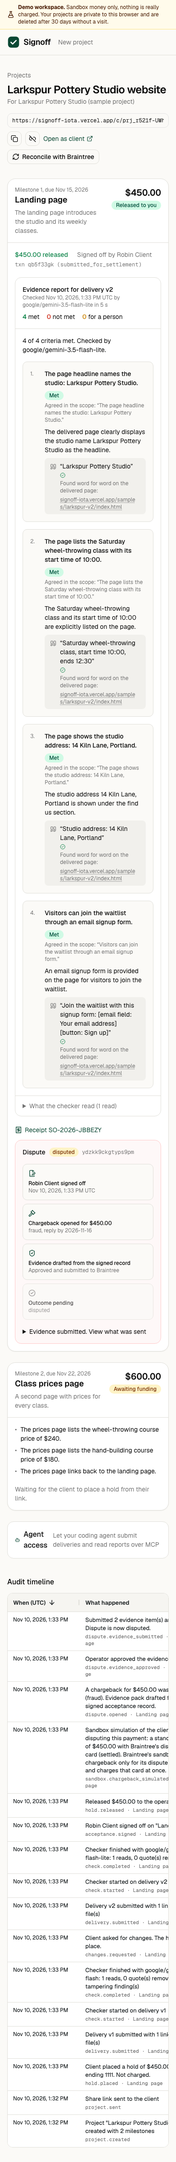
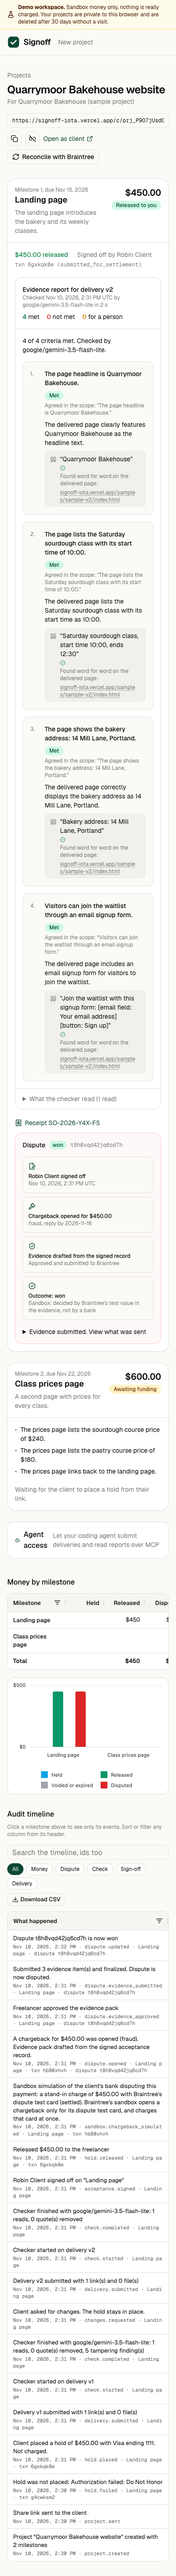
Judge path as a host test, and production screenshots re-captured
tests/e2e/judge-path.spec.ts follows the README judge path step by step on the
sandbox, card typed into the Drop-in, through the chargeback ruled won and the
money grid and chart at 1280 and 390 px. All 7 browser tests pass on the host.

Changed region(s): [[0.0308, 0.0, 0.9538, 0.9992], [0.1231, 0.4059, 0.1538, 0.4371]]

diff --git a/tests/e2e/judge-path.spec.ts b/tests/e2e/judge-path.spec.ts
@@ -1,0 +1,99 @@
+import { expect, test } from "@playwright/test";
+
+const shots = process.env.E2E_SHOTS_DIR ?? "test-results/screens";
+
+/** The README's judge path, step by step, as written. Runs on the sandbox only: step 2 types into the real Drop-in. */
+test("the README judge path", async ({ page, context }) => {
+  test.setTimeout(480_000);
+  const health = (await (await page.request.get("/api/health")).json()) as { rail: string };
+  test.skip(health.rail !== "sandbox", "the judge path is written for the Braintree sandbox");
+  await page.setViewportSize({ width: 1280, height: 900 });
+
+  // 1
+  await page.goto("/");
+  await page.getByRole("button", { name: "Try the live demo" }).click();
+  await page.getByRole("link", { name: /Quarrymoor Bakehouse website/ }).first().click();
+  const shareUrl = await page.getByRole("textbox", { name: "Client link" }).inputValue();
+  await expect(page.getByRole("link", { name: /Open as client/ })).toBeVisible();
+  const client = await context.newPage();
+  await client.setViewportSize({ width: 1280, height: 900 });
+  await client.goto(shareUrl);
+  await expect(client.getByText(/held, not charged/).first()).toBeVisible();
+
+  // 2: typed into Braintree's frames
+  const m1 = client.locator("section").first();
+  await m1.locator(".braintree-dropin").waitFor({ timeout: 60_000 });
+  const cardOption = m1.getByText("Card", { exact: true });
+  if (await cardOption.isVisible().catch(() => false)) await cardOption.click();
+  const field = (n: string) => m1.frameLocator(`iframe[name^='braintree-hosted-field-${n}']`).locator("input:not(.autofill-field)");
+  await field("number").fill("4111 1111 1111 1111");
+  await field("expirationDate").fill("12/30");
+  for (const n of ["cvv", "postalCode"]) if (await m1.locator(`iframe[name^='braintree-hosted-field-${n}']`).count()) await field(n).fill(n === "cvv" ? "123" : "12345");
+  await m1.getByRole("button", { name: /^Hold \$/ }).click();
+  await expect(m1.getByText("Your money is held.")).toBeVisible({ timeout: 90_000 });
+  await expect(m1.getByText("Visa ending 1111")).toBeVisible();
+  await expect(m1.getByText(/Hold expires /)).toBeVisible();
+
+  // 3
+  await page.reload();
+  await page.getByRole("button", { name: "v1 with a cheat" }).click();
+  await page.getByRole("button", { name: "Submit delivery for checking" }).click();
+  await expect(page.getByText("Tampering found on the delivered page")).toBeVisible({ timeout: 120_000 });
+
+  // 4
+  await client.reload();
+  await client.getByRole("button", { name: "Request changes" }).click();
+  await client.getByRole("button", { name: "Draft from the report" }).click();
+  await expect(client.locator("#note")).not.toHaveValue("", { timeout: 60_000 });
+  await client.getByRole("button", { name: "Send change request" }).click();
+  await expect(client.getByText("You asked for changes").first()).toBeVisible();
+
+  // 5
+  await page.reload();
+  await page.getByRole("button", { name: "v2, complete" }).click();
+  await page.getByRole("button", { name: "Submit delivery for checking" }).click();
+  await expect(page.getByText("Evidence report for delivery v2")).toBeVisible({ timeout: 120_000 });
+  await expect(page.getByText(/^4 of 4 criteria met\./)).toBeVisible();
+
+  // 6
+  await client.reload();
+  await client.getByRole("button", { name: "Accept and release" }).click();
+  await client.locator("#signer").fill("Jordan Judge");
+  await client.getByRole("button", { name: "Sign off and release payment" }).click();
+  await client.getByRole("link", { name: /View receipt SO-/ }).click();
+  await expect(client.getByText("(verified)")).toBeVisible();
+  await expect(client.getByText(/Larkspur|Pottery/i)).toHaveCount(0);
+
+  // 7
+  await page.reload();
+  await page.getByRole("button", { name: "Sandbox: simulate the client's bank disputing this payment" }).click();
+  await expect(async () => {
+    await page.reload();
+    await expect(page.getByRole("button", { name: "Approve and submit evidence to Braintree" })).toBeVisible({ timeout: 5_000 });
+  }).toPass({ timeout: 120_000 });
+  await expect(page.getByRole("textbox", { name: "Evidence pack" })).toHaveValue(/Jordan Judge/);
+  await expect(page.getByRole("radio", { name: /^Win/ })).toBeChecked();
+  await page.getByRole("button", { name: "Approve and submit evidence to Braintree" }).click();
+  await expect(page.getByText("Evidence submitted. View what was sent")).toBeVisible({ timeout: 60_000 });
+  await page.waitForTimeout(30_000);
+  await expect(async () => {
+    await page.getByRole("button", { name: "Reconcile with Braintree" }).click();
+    await expect(page.getByText("Outcome: won")).toBeVisible({ timeout: 5_000 });
+  }).toPass({ timeout: 120_000 });
+  await expect(page.getByText("Sandbox: decided by Braintree's test value in the evidence, not by a bank")).toBeVisible();
+
+  // 8
+  const heading = page.getByRole("heading", { name: "Money by milestone" });
+  await heading.scrollIntoViewIfNeeded();
+  await expect(page.getByRole("img", { name: /^Money by milestone:/ })).toBeVisible();
+  await page.getByRole("button", { name: "Landing page" }).first().click();
+  await expect(page.getByText("Milestone: Landing page")).toBeVisible();
+  await page.screenshot({ path: `${shots}/11-money-1280.png`, fullPage: true });
+  await page.setViewportSize({ width: 390, height: 844 });
+  await page.reload();
+  await page.getByRole("heading", { name: "Money by milestone" }).scrollIntoViewIfNeeded();
+  await expect(page.getByRole("img", { name: /^Money by milestone:/ })).toBeVisible();
+  const { scroll, width } = await page.evaluate(() => ({ scroll: document.documentElement.scrollWidth, width: window.innerWidth }));
+  expect(scroll).toBeLessThanOrEqual(width + 1);
+  await page.screenshot({ path: `${shots}/12-money-390.png`, fullPage: true });
+});
